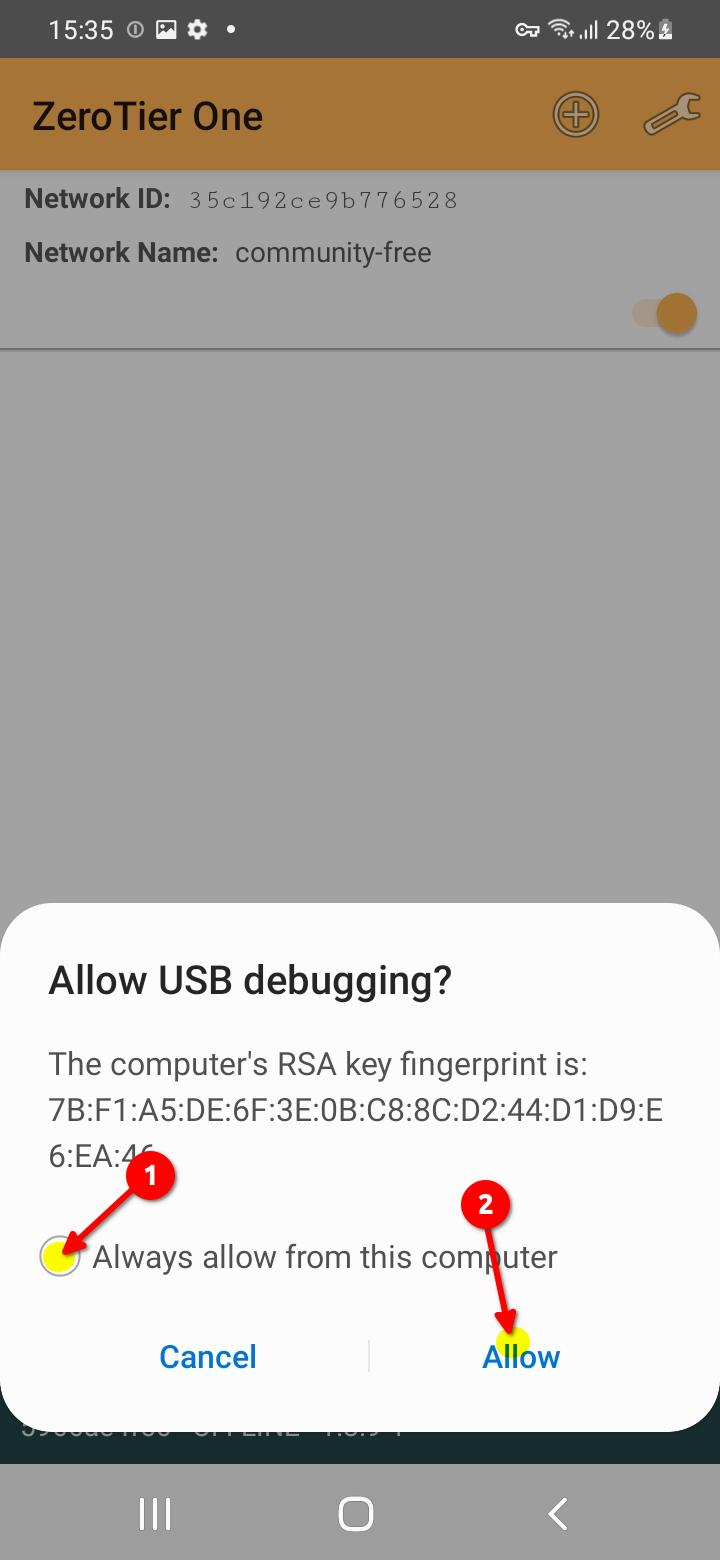
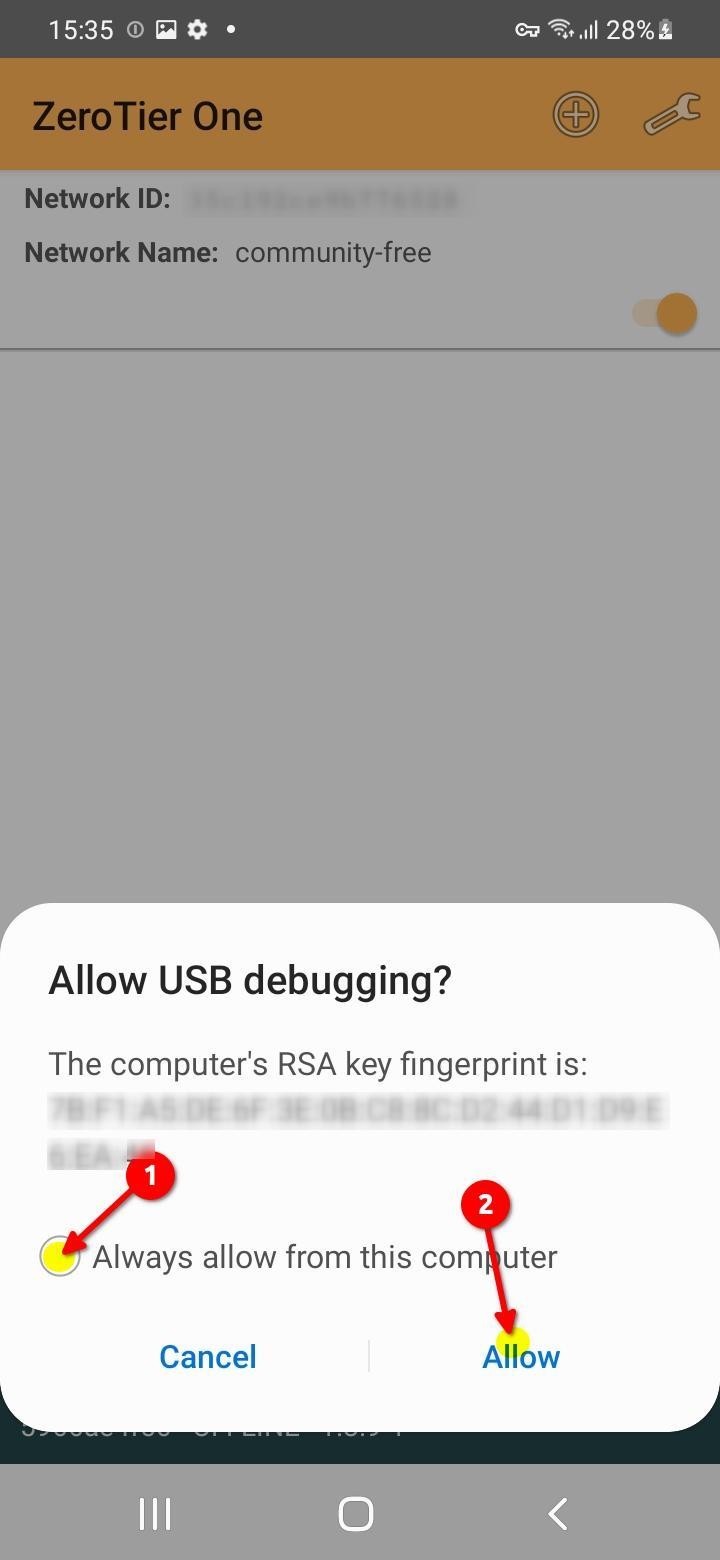
SDL-1065: Add documentation and static assets for add-device wizard (blured and cropped)

Changed region(s): [[0.0611, 0.6769, 0.9167, 0.7692]]

diff --git a/docs/For SmartDust Lab operators and partners/add-device-wizard.md b/docs/For SmartDust Lab operators and partners/add-device-wizard.md
@@ -59,7 +59,7 @@ sidebar_position: 1
 
 ---
 
-## 05 · Zerotier app should open by itself (don't touch screen at this point)
+## 05 · Zerotier app should open by itself (let our service do the work, keep the screen unlocked and unthouched)
 
 ![Step 5](/add-device-wizard/zerotier.jpg)
 
@@ -73,8 +73,8 @@ sidebar_position: 1
 ## 06 · Finalize Connection
 
 ![Step 6](/add-device-wizard/switch_copy.png)
-![Step 6](/add-device-wizard/allow_usb_debug1.jpg)
 ![Step 6](/add-device-wizard/paste_connect.png)
+![Step 6](/add-device-wizard/allow_usb_debug1.jpg)
 ![Step 6](/add-device-wizard/use_device.png)
 
 <details>
